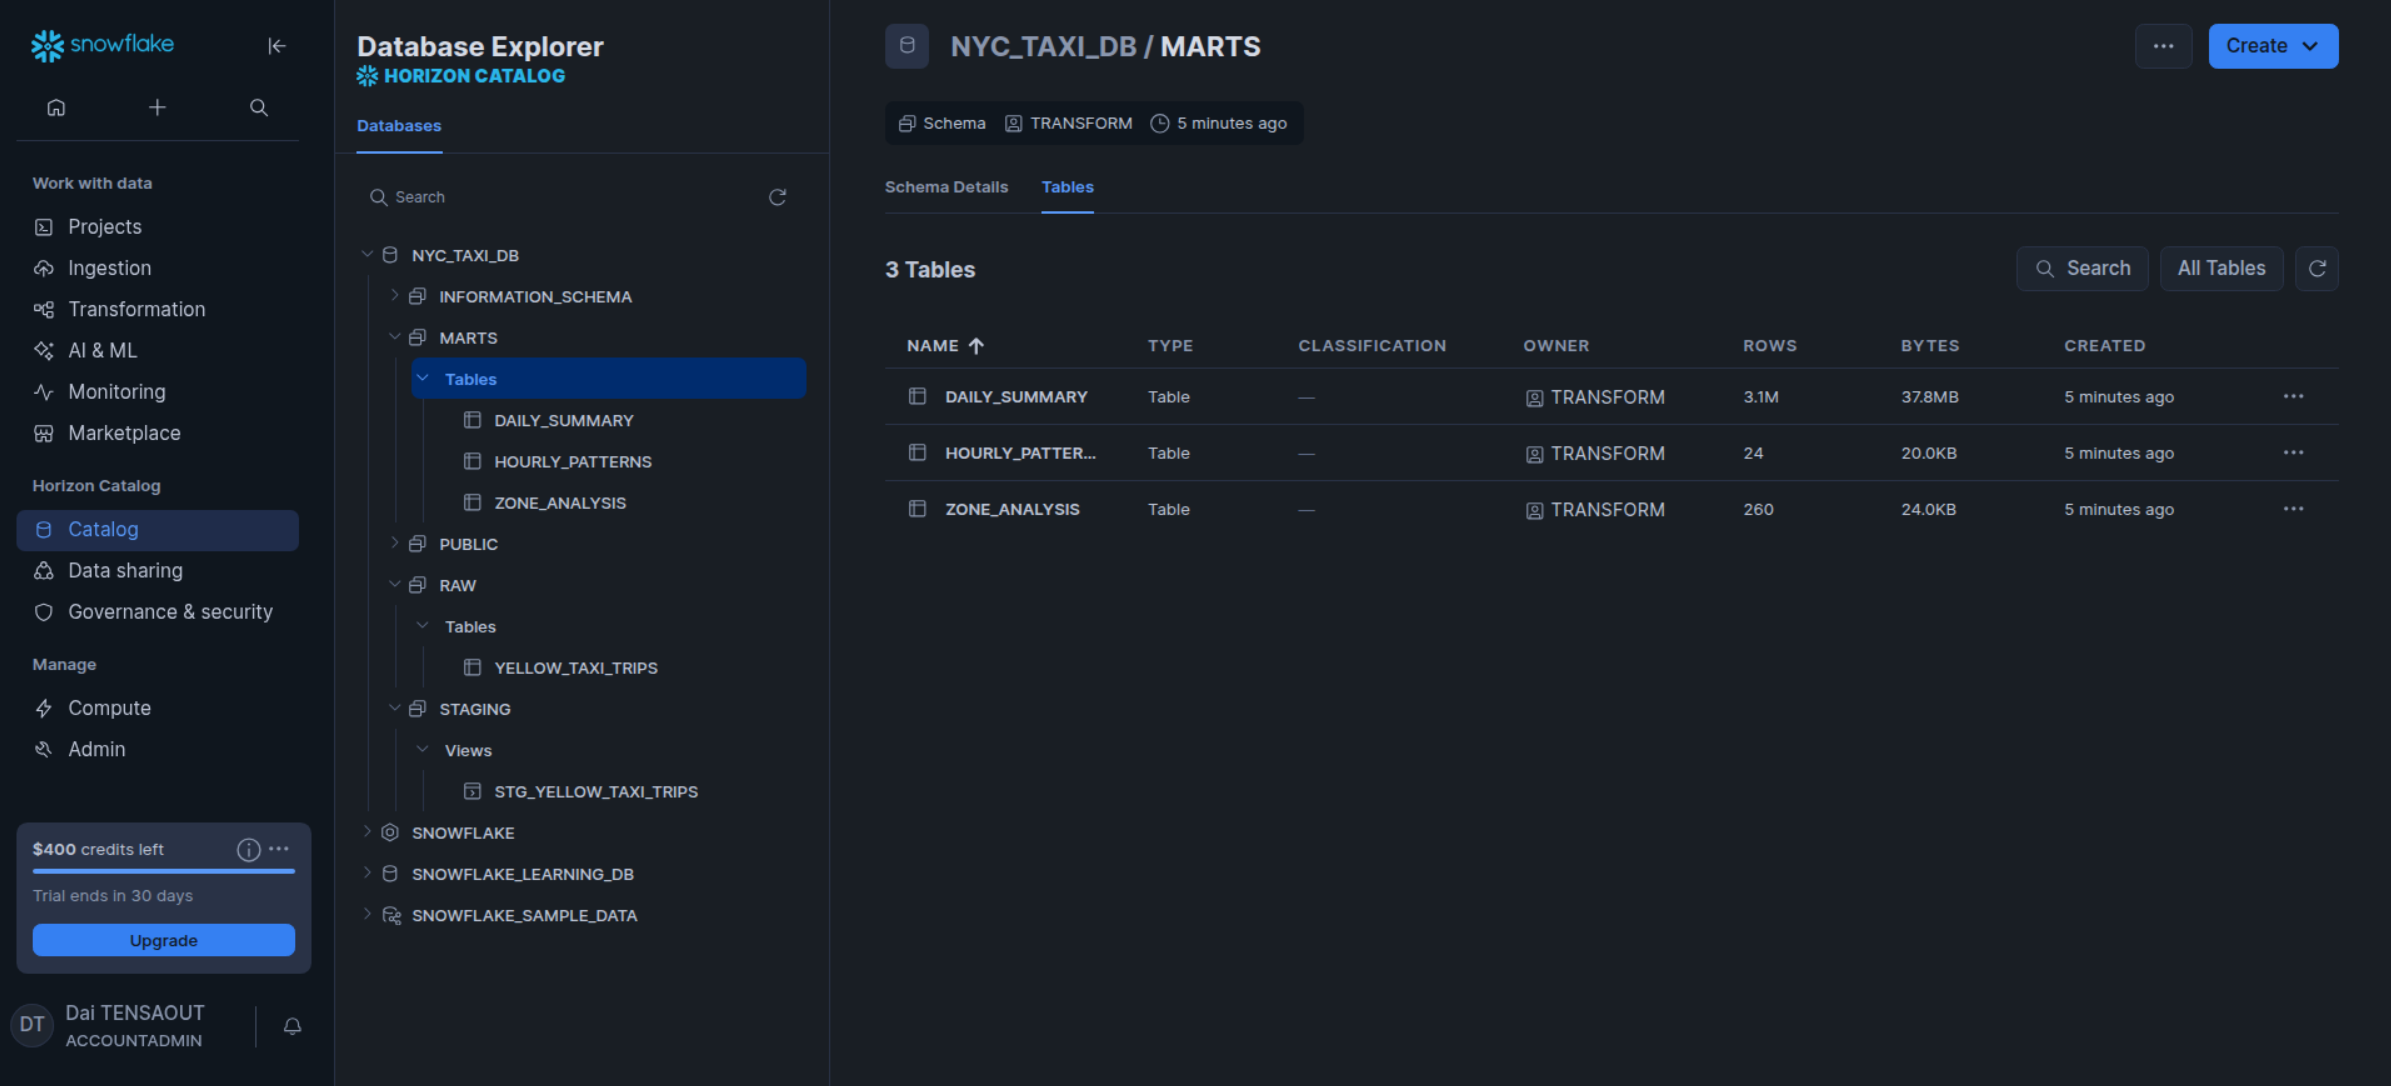
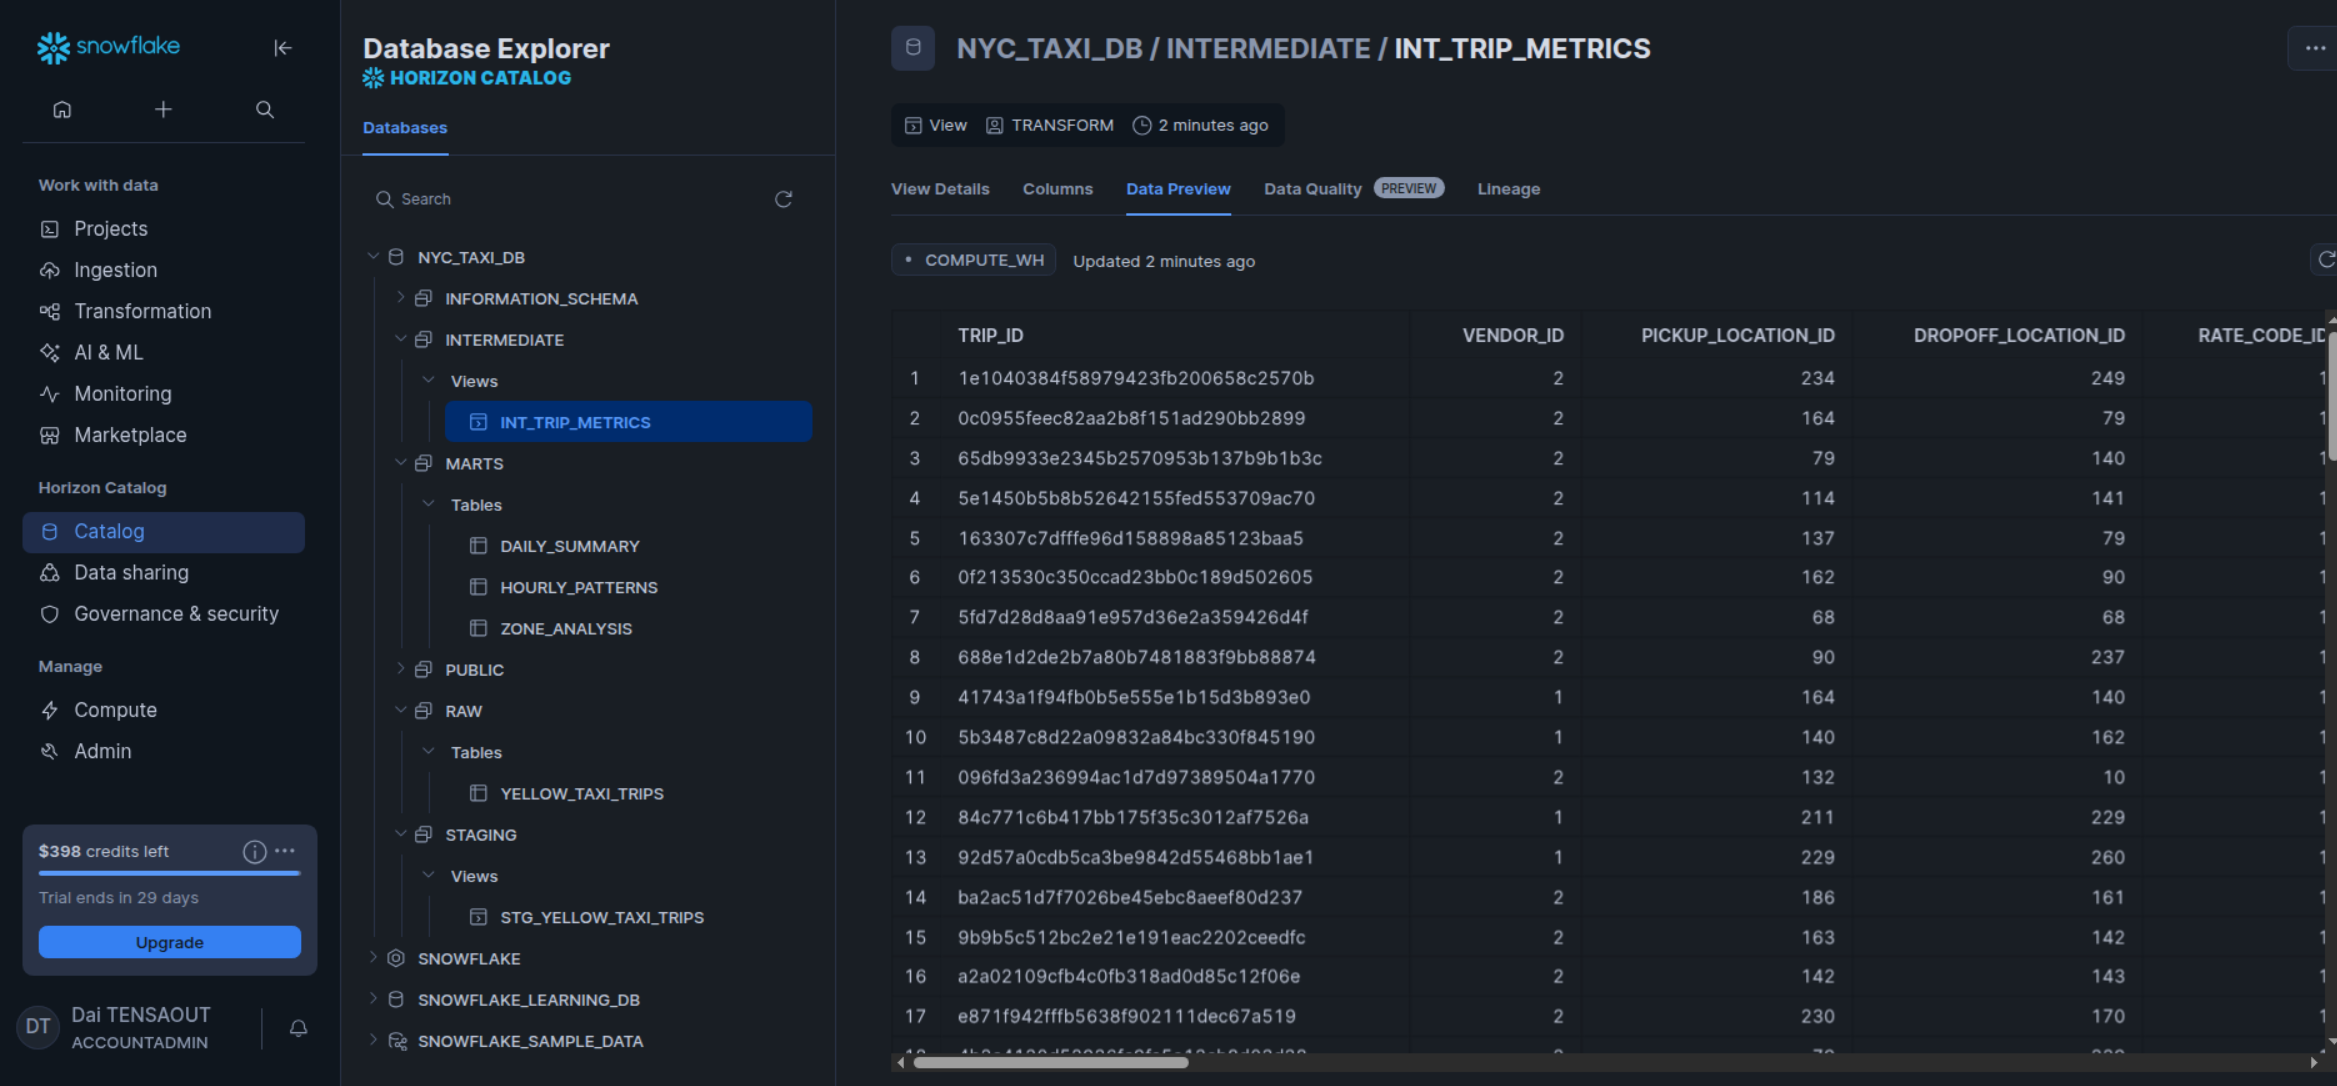
Update dbt models & dbt documentation

diff --git a/dbt-dag/dags/dbt_dag.py b/dbt-dag/dags/dbt_dag.py
@@ -28,7 +28,7 @@ with DbtDag(
     ),
     # Render config to select specific models if needed, or default to all
     render_config=RenderConfig(
-        select=["path:models/staging", "path:models/marts"]
+        select=["path:models/staging", "path:models/intermediate", "path:models/marts"]
     ),
     schedule_interval=None,
     start_date=datetime(2023, 9, 10),
